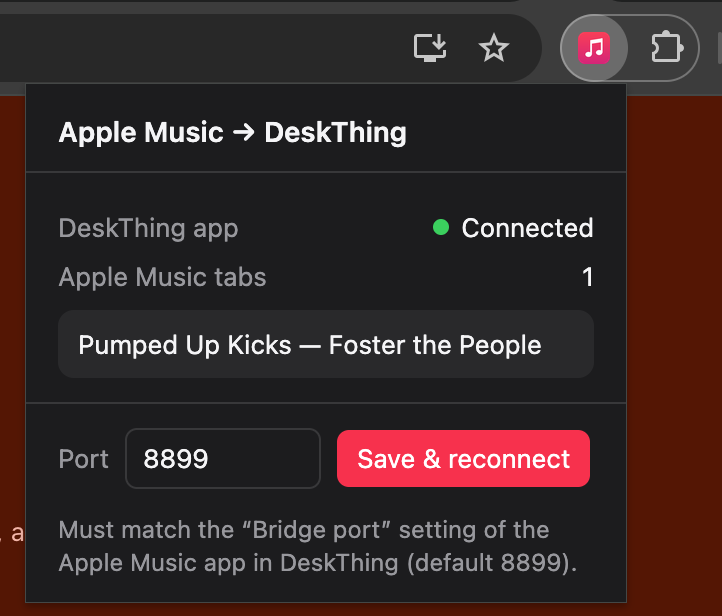
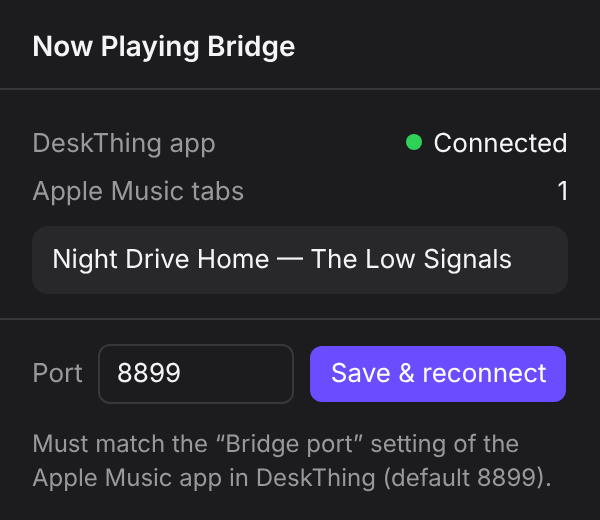
Prepare the extension for the Chrome Web Store and Edge Add-ons
- Rename the extension "Now Playing Bridge for DeskThing" (no Apple
  trademark in the product name); 121-char store description
- Recolor its icon and popup accent to violet so it can't be mistaken
  for Apple Music's own icon
- PRIVACY.md: what is read, where it goes (127.0.0.1 and lrclib.net),
  what is stored, and what is never done
- store/LISTING.md: listing text, single purpose, permission
  justifications, data-use answers, reviewer notes and a checklist
- store/images: four 1280x800 screenshots from demo mode (no real album
  art or lyrics), 440x280 promo tile, 300x300 logo
- store/package.sh builds the upload zip with manifest.json at the root
- App waiting screen and README use the new name; README links the
  privacy policy and store kit

Extension 1.4.0, app 1.7.2.

Claude-Session: https://claude.ai/code/session_01G8HDncProbvqfBtF6G6uoD

diff --git a/extension/popup.html b/extension/popup.html
@@ -3,7 +3,7 @@
 <head>
   <meta charset="utf-8" />
   <style>
-    :root { color-scheme: light dark; --fg: #1d1d1f; --muted: #6e6e73; --bg: #fff; --line: #e5e5ea; --accent: #fa2d48; }
+    :root { color-scheme: light dark; --fg: #1d1d1f; --muted: #6e6e73; --bg: #fff; --line: #e5e5ea; --accent: #6b4dff; }
     @media (prefers-color-scheme: dark) { :root { --fg: #f5f5f7; --muted: #98989d; --bg: #1c1c1e; --line: #38383a; } }
     body { margin: 0; width: 300px; font: 13px/1.4 "Segoe UI", system-ui, sans-serif; color: var(--fg); background: var(--bg); }
     header { padding: 14px 16px 10px; font-weight: 600; font-size: 14px; border-bottom: 1px solid var(--line); }
@@ -20,7 +20,7 @@
   </style>
 </head>
 <body>
-  <header>Apple Music → DeskThing</header>
+  <header>Now Playing Bridge</header>
   <section>
     <div class="row"><span class="label">DeskThing app</span><span id="ws"><span class="dot"></span>—</span></div>
     <div class="row"><span class="label">Apple Music tabs</span><span id="tabs">—</span></div>

diff --git a/app/server/bridge.ts b/app/server/bridge.ts
@@ -2,7 +2,7 @@ import { WebSocketServer, WebSocket } from 'ws'
 import type { IncomingMessage } from 'http'
 import type { AppleLyricsMessage, Command, TrackState } from '../shared/types'
 
-// Local WebSocket server that the "Apple Music DeskThing Bridge" browser
+// Local WebSocket server that the "Now Playing Bridge for DeskThing" browser
 // extension (Edge or Chrome) connects to. Bound to 127.0.0.1 only, and only browser-extension
 // origins are accepted, so ordinary web pages can't drive playback.
 

diff --git a/app/src/App.tsx b/app/src/App.tsx
@@ -292,7 +292,7 @@ const App: React.FC = () => {
             {np.connected === false ? (
               <>
                 <p className="empty-title">Waiting for the browser</p>
-                <p className="empty-body">Open music.apple.com in Edge or Chrome with the DeskThing Bridge extension turned on.</p>
+                <p className="empty-body">Open music.apple.com in Edge or Chrome with the Now Playing Bridge extension turned on.</p>
               </>
             ) : (
               <>

diff --git a/store/LISTING.md b/store/LISTING.md
@@ -1,0 +1,99 @@
+# Store listing: Now Playing Bridge for DeskThing
+
+Everything to paste into the Chrome Web Store and Microsoft Edge Add-ons forms. Images are in [`store/images/`](images/); the upload zip is built with [`store/package.sh`](package.sh).
+
+## Basics
+
+| Field | Value |
+|---|---|
+| Name | Now Playing Bridge for DeskThing |
+| Summary / short description (≤132 chars) | Shows what you play on Apple Music on the web on a Car Thing running DeskThing, with synced lyrics and playback controls. |
+| Category | Chrome: **Tools** · Edge: **Entertainment** |
+| Language | English |
+| Homepage / support URL | https://github.com/jayrez/AppleMusicThing |
+| Privacy policy URL | https://github.com/jayrez/AppleMusicThing/blob/main/PRIVACY.md |
+| Pricing | Free |
+
+## Detailed description
+
+```
+Turn a Car Thing running DeskThing into a now playing screen for Apple Music on the web.
+
+This extension connects the Apple Music web player (music.apple.com) in Edge or Chrome to the free Apple Music app for DeskThing, the open-source system that brings Spotify's discontinued Car Thing back to life as a desk display.
+
+WHAT YOU GET ON THE CAR THING
+• Album art, title, artist and progress for whatever's playing
+• Synced lyrics that fill in word by word as they're sung
+• Play, pause, skip and seek from the touchscreen and buttons
+• Volume on the dial, play/pause on a press, swipes to skip
+
+WHAT YOU NEED
+• A Car Thing running DeskThing (deskthing.app)
+• The Apple Music app for DeskThing, installed in DeskThing
+• An Apple Music subscription, signed in at music.apple.com
+
+PRIVATE BY DESIGN
+Song info only goes to the DeskThing app on your own computer, over a local connection. There are no accounts, servers or analytics. When Apple Music has no lyrics for a song, the song's title and artist are looked up on LRCLIB, a free public lyrics database. Full privacy policy: github.com/jayrez/AppleMusicThing/blob/main/PRIVACY.md
+
+Open source (MIT): github.com/jayrez/AppleMusicThing
+
+Not affiliated with, endorsed by, or sponsored by Apple, Spotify, or the DeskThing project. Apple Music is a trademark of Apple Inc.
+```
+
+## Single purpose (Chrome)
+
+```
+Sends what's playing in the Apple Music web player to the DeskThing app on the same computer, and carries out playback commands from it, so a Car Thing can show and control the music.
+```
+
+## Permission justifications
+
+| Permission | Justification to paste |
+|---|---|
+| `storage` | Saves one setting: the local port number used to connect to the DeskThing app on the same computer. |
+| Host permission `https://lrclib.net/*` | Fetches song lyrics from LRCLIB, a free public lyrics database, when Apple Music has none and the DeskThing app on this computer can't reach lrclib.net itself (for example behind a company proxy). Only lrclib.net URLs are ever fetched. |
+| Content scripts on `https://music.apple.com/*` | Reads the current song, playback position and lyrics from the Apple Music web player, and carries out play, pause, skip, seek and volume commands sent from the user's Car Thing. Runs on no other site. |
+| Remote code | **No.** All code is included in the package. |
+
+The extension also opens a WebSocket to `ws://127.0.0.1:<port>` to talk to the DeskThing app on the same computer. No permission is required for this, but mention it if asked.
+
+## Data use (Chrome privacy tab / Edge)
+
+- **Data collected:** Website content. The current song's title, artist, album, artwork link, playback state and lyrics, read from music.apple.com.
+- **How it's used:** Only to show the song on the user's Car Thing. It's sent to the DeskThing app on the same computer (127.0.0.1). Song title, artist, album and length are sent to lrclib.net for lyrics when needed.
+- **Certify all three:**
+  - Not sold or transferred to third parties, outside the approved use cases.
+  - Not used or transferred for purposes unrelated to the single purpose.
+  - Not used or transferred to determine creditworthiness or for lending.
+
+## Notes for reviewers
+
+```
+This extension is a companion to a desktop app (DeskThing, deskthing.app) and its Car Thing display. Without DeskThing running, the extension's popup shows "Not reachable — is DeskThing running?" and the extension does nothing else.
+
+To test without hardware: install DeskThing on the computer, install the Apple Music app for DeskThing from github.com/jayrez/AppleMusicThing/releases, then open DeskThing's client page in a browser (DeskThing → Clients → QR Code link). Play a song at music.apple.com; the popup shows "Connected" and the song, and the DeskThing client page shows it.
+
+The extension reads the Apple Music web player through the page's own player object, and requests lyrics through the page's existing signed-in session, the same way the page's lyrics button does. It doesn't read or store sign-in tokens. The local WebSocket only accepts connections from browser extensions, so websites can't use it.
+```
+
+## Images
+
+| File | Use | Size |
+|---|---|---|
+| `images/screenshot-1-now-playing.png` | Screenshot 1 | 1280×800 |
+| `images/screenshot-2-lyrics.png` | Screenshot 2 | 1280×800 |
+| `images/screenshot-3-controls.png` | Screenshot 3 | 1280×800 |
+| `images/screenshot-4-popup.png` | Screenshot 4 | 1280×800 |
+| `images/promo-small-440x280.png` | Chrome small promo tile · Edge small promotional tile | 440×280 |
+| `images/store-logo-300.png` | Edge store logo | 300×300 |
+| `../extension/icons/icon128.png` | Chrome store icon | 128×128 |
+
+The screenshots use the app's demo songs and artwork on purpose: store reviewers reject listings that show real album covers or lyrics they don't hold rights to.
+
+## Publishing checklist
+
+1. Build the zip: `store/package.sh` → `store/dist/now-playing-bridge-v<version>.zip`. `manifest.json` is at the root of the zip, which the stores require.
+2. **Edge (free):** at [Partner Center](https://partner.microsoft.com/dashboard/microsoftedge/overview), register as an Edge extension developer, choose **Create new extension**, upload the zip, then fill in **Properties**, **Store listings** and **Submit**.
+3. **Chrome (one-time fee):** at the [Chrome Web Store developer dashboard](https://chrome.google.com/webstore/devconsole), register, choose **New item**, upload the zip, then fill in **Store listing**, **Privacy** and **Distribution** (Public), and submit for review.
+4. After approval, add the store links to the README.
+5. For every update, bump `version` in `extension/manifest.json`, rebuild the zip, and upload it as a new package in both dashboards.

diff --git a/README.md b/README.md
@@ -31,7 +31,7 @@ music.apple.com tab ──▶ browser extension ──▶ DeskThing app (on your
                          sends commands         settings, button actions             controls
 ```
 
-- **`extension/`**: Apple Music DeskThing Bridge. Reads what's playing in your music.apple.com tab, fetches Apple's lyrics for it, and carries out play/pause, skip, seek and volume.
+- **`extension/`**: Now Playing Bridge for DeskThing, the browser extension. Reads what's playing in your music.apple.com tab, fetches Apple's lyrics for it, and carries out play/pause, skip, seek and volume.
 - **`app/`**: the DeskThing app. Its server side runs inside DeskThing on your computer and talks to the extension; its screen runs on the Car Thing.
 
 ## Requirements
@@ -43,16 +43,16 @@ music.apple.com tab ──▶ browser extension ──▶ DeskThing app (on your
 ## Install
 
 ### 1. The browser extension
-1. Download this repo (or the release's `applemusic-bridge-extension.zip`) and keep the `extension` folder somewhere permanent; the browser loads it from that folder.
+1. Download this repo (or the release's `now-playing-bridge-v1.4.0.zip`) and keep the `extension` folder (or the unzipped files) somewhere permanent; the browser loads it from that folder.
 2. Open the extensions page (`edge://extensions` in Edge, `chrome://extensions` in Chrome), turn on **Developer mode**, click **Load unpacked**, and pick the `extension` folder.
 3. Reload any open music.apple.com tab.
 
 ### 2. The DeskThing app
-1. Get `applemusic-v1.7.1.zip` from the Releases page (or build it, see below). In DeskThing, open **Apps**, choose to add an app from a file, and pick that zip.
+1. Get `applemusic-v1.7.2.zip` from the Releases page (or build it, see below). In DeskThing, open **Apps**, choose to add an app from a file, and pick that zip.
 2. Open the app on the Car Thing.
 3. Click the extension's toolbar icon (in Chrome, pin it from the puzzle-piece menu first). It should say **Connected** and show the current song.
 
-   <img src="docs/screenshots/extension-popup.png" alt="Extension popup showing Connected, one Apple Music tab, the current song, and port 8899" width="361">
+   <img src="docs/screenshots/extension-popup.png" alt="Now Playing Bridge popup showing Connected, one Apple Music tab, the current song, and port 8899" width="300">
 
 ## Using it
 
@@ -95,17 +95,24 @@ The app also registers mappable actions (**Apple Music: Play / Pause, Next, Prev
 - **"Couldn't reach the lyrics service"**: the app tries lrclib.net directly first; if the computer's network blocks that (common behind a company proxy, which DeskThing doesn't use), it fetches through the browser instead. If it still fails, check that `https://lrclib.net/api/search?q=hello` opens in your browser; if it's blocked there, a web filter is blocking the site.
 - **An update doesn't seem to apply on the Car Thing**: fully close and reopen the app on the Car Thing; it can keep showing a cached copy.
 
-## Security notes
+## Privacy and security
+
+No accounts, servers or analytics: song info goes only to the DeskThing app on your own computer, plus lrclib.net lookups when Apple has no lyrics. Full details in the [privacy policy](PRIVACY.md).
+
 
 - The bridge listens on `127.0.0.1` only and refuses connections that don't come from a browser extension, so websites can't control playback through it.
 - The extension only runs on music.apple.com. Besides local storage for the port number, it can reach lrclib.net, and it only fetches lrclib.net URLs on the app's behalf, so the app can't use it as a general proxy.
+
+## Publishing the extension
+
+Store-ready listing text, permission justifications, data-use answers and images for the Chrome Web Store and Microsoft Edge Add-ons are in [`store/LISTING.md`](store/LISTING.md). Build the upload zip with `store/package.sh`.
 
 ## Building from source
 
 ```
 cd app
 npm install
-npm run build        # → app/dist/applemusic-v1.7.1.zip
+npm run build        # → app/dist/applemusic-v1.7.2.zip
 npx vite             # preview the screen in a browser with demo data
 ```
 
@@ -119,6 +126,7 @@ app/
   deskthing/   app manifest and action icons
 extension/     the browser extension for Edge or Chrome (Manifest V3, no build step)
 docs/          screenshots
+store/         browser store listing text, images, and package.sh for the upload zip
 ```
 
 ## Credits

diff --git a/PRIVACY.md b/PRIVACY.md
@@ -1,0 +1,42 @@
+# Privacy policy
+
+**Now Playing Bridge for DeskThing** (the browser extension) and the **Apple Music app for DeskThing**
+
+Last updated: October 21, 2026
+
+This project has no servers, no accounts and no analytics. The developer never receives any of your data.
+
+## What the extension reads
+
+On music.apple.com only, the extension reads what the Apple Music web player is doing:
+
+- the current song's title, artist, album, artwork link and length
+- the playback position, whether it's playing, and the player volume
+- the next song in your queue
+- the current and next song's lyrics, which the extension asks for through the Apple Music page you're already signed in to, the same way the page's own lyrics button does
+
+It does not run on any other website, and it does not read your browsing history, your Apple account details or your sign-in tokens.
+
+## Where that information goes
+
+- **To the DeskThing app on your own computer.** The extension sends the information above over a local connection to `127.0.0.1` (your computer only, port 8899 by default). DeskThing shows it on your Car Thing. It never leaves your computer this way.
+- **To lrclib.net, only when needed for lyrics.** If Apple Music has no lyrics for a song, the DeskThing app looks them up on [LRCLIB](https://lrclib.net), a free public lyrics database, using the song's title, artist, album and length. If your computer's network blocks the app from reaching lrclib.net, the extension makes that same request through your browser instead. No other information is sent, and LRCLIB's own privacy terms apply to those requests.
+
+The DeskThing app also downloads album artwork from Apple's image servers so it can display it.
+
+## What is stored
+
+- The extension stores one setting in your browser: the local port number.
+- The DeskThing app keeps the current and recent songs' lyrics in memory to avoid fetching them twice. Nothing is written to disk, and it's gone when DeskThing closes.
+
+## What is not done
+
+- No data is sold, shared with third parties, or used for advertising.
+- No personal information is collected.
+- No analytics, tracking or crash reporting.
+
+## Contact
+
+Questions or concerns: open an issue at [github.com/jayrez/AppleMusicThing](https://github.com/jayrez/AppleMusicThing/issues).
+
+If this policy changes, the update will be published here, with a new date above.
